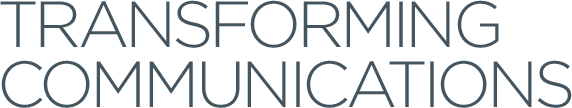
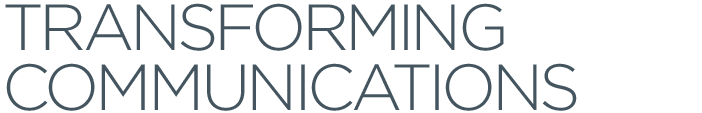
fixtures for company_about

diff --git a/public/stylesheets/frontend/style.css b/public/stylesheets/frontend/style.css
@@ -1438,8 +1438,6 @@ background:url(/images/frontend/g_logo.png) no-repeat right bottom;
 .home_index_header p img{
 position:relative;
 top:-20px;
-width:572px;
-height:108px;
 }
 .home_index_header p{
 width:710px;
